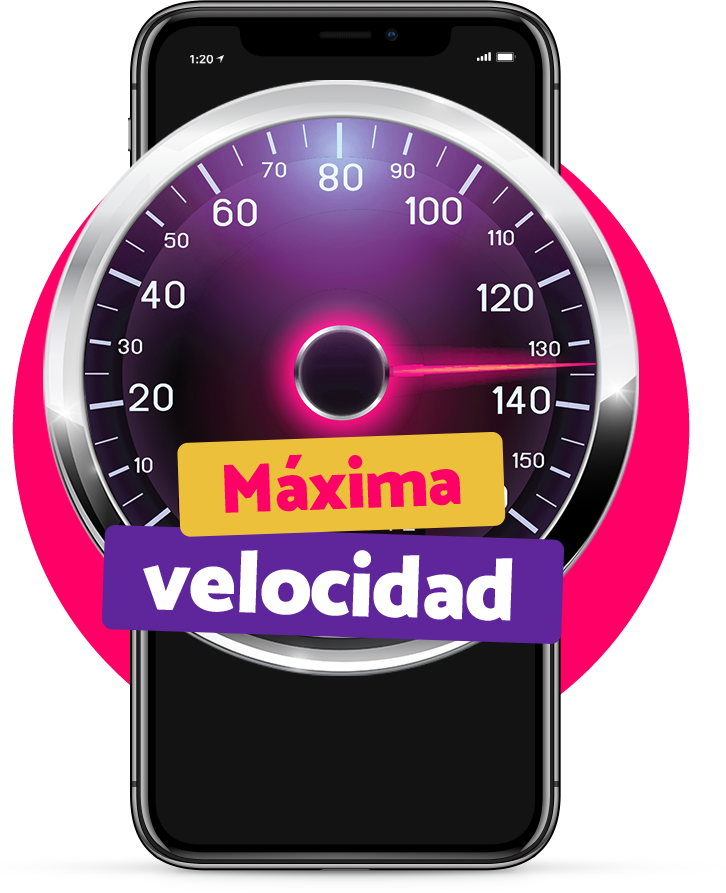
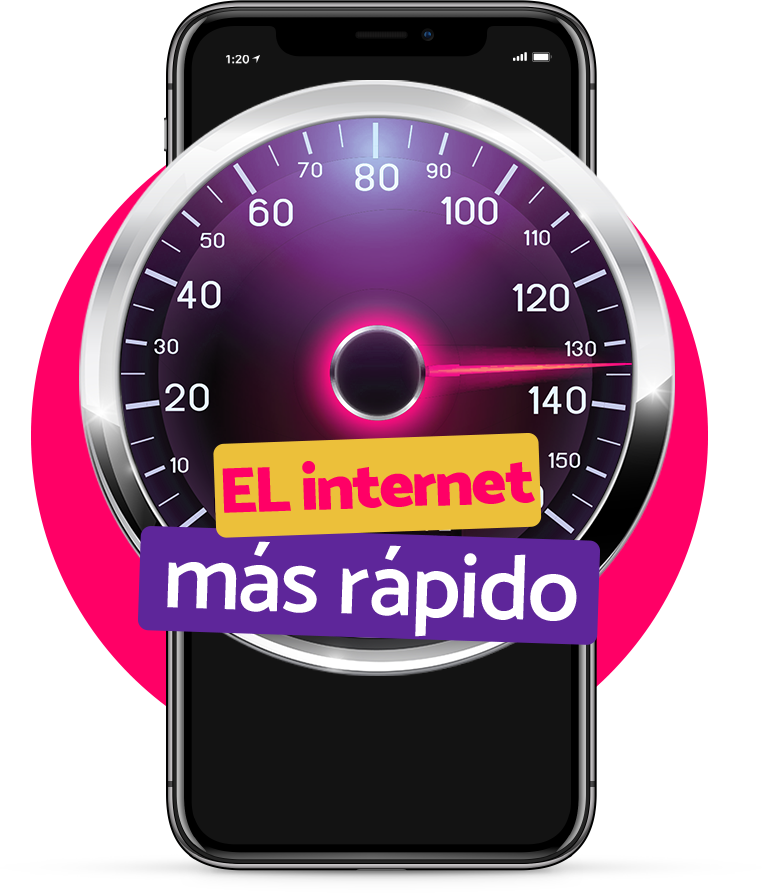
[FINAL]

Changed region(s): [[0.0, 0.0, 0.9697, 0.9978]]

diff --git a/index.html b/index.html
@@ -13,7 +13,7 @@
     <link rel="stylesheet" href="./assets/css/jquery-ui.css">
     <link rel="stylesheet" href="./assets/css/style.css">
     <script src="https://kit.fontawesome.com/a076d05399.js"></script>
-    <title>Ahora tuenti es mas CLARO</title>
+    <title>Ahora tuenti es más claro</title>
 </head>
 
 <body>
@@ -21,13 +21,13 @@
         <div class="content_nav">
             <nav class="nav search_one bg-tuenti">
                 <img src="./assets/img/logo_white.png" class="tuenti_logo_header">
-                <img src="./assets/img/share.png" class="share_button_header">
+                <img src="./assets/img/share.png" class="share_button_header " onClick="sharePagina()">
             </nav>
             <nav class="nav search_two d-none">
                 <!-- <img src="./assets/img/logo2.png" class="tuenti_logo_header"> -->
                 <a class="action_button" href="#contein_row_1">
                 <button class="button_header" href="#contein_row_1"><img style="margin-left: 2px;margin-right: 2px" src="./assets/img/PIhDCo.png"></i>Buscar</button></a>
-                <img src="./assets/img/share2.png" class="share_button_header">
+                <img src="./assets/img/share2.png" class="share_button_header" onClick="sharePagina()">
             </nav>
         </div>
         
@@ -223,14 +223,13 @@
                             </div> -->
                             <div class="text_description w-85 m-auto text-left padding-right-25">
                                 <p>
-                                    <strong>Velocidad de internet:</strong><br>
                                     ¿Cansado de esperar a que carguen tus videos?<br>
-                                    Ahora vas a poder navegar con EL internet más rápido de Guatemala. 
+                                    Ahora vas a poder navegar con El internet más rápido de Guatemala. 
                                 </p>
                             </div>
                         </div>
                         <div class="spacer s0" id="trigger6"></div>
-                    <div class="button_more w-75 m-auto" class="animacionRow6">
+                    <div class="button_more w-75 m-auto" class="animacionRow6" style="bottom: 2rem!important;">
                         <a href="#contein_row_2">
                             <button id="more-22" class="m-left-auto">Conocé más</button>
                         </a>
@@ -247,7 +246,7 @@
                                 <div class="spacer s0" id="trigger-tacometro"></div>
                                 <img class="agujaIcon" id="agujaIcon" src="./assets/img/aguja.png">
                                 <img class="" id="taponIcon" src="./assets/img/tapon-tacometro.png">
-                                <img class="animation-mas-icon" id="masIcon" src="./assets/img/mas-velocidad.png">
+                                <img class="animation-mas-icon" id="masIcon" src="./assets/img/mas-velocidad2.png">
                                 
                             </div>
                         <!-- <img class="img_tema" src="./assets/img/x5/x5.png"> -->
@@ -613,7 +612,7 @@
                 <div class="w-100">
                     <div class="title m-auto w-100 pl-15" class="animacionRow20">
                         <h4 class="c-medium mb_s_5"></h4>
-                        <h2 class="c-bold title_2 mb_t_5">Control total</h2>
+                        <h2 class="c-bold title_2 mb_t_5 mb-5">Control Total</h2>
                     </div>
                     <div class="description w-75 m-auto" class="animacionRow21">
                         <div class="row d-flex">
@@ -624,38 +623,44 @@
                                 <p>
                                     Seguí controlando todos tus megas y minutos gracias a que Tuenti ahora es más claro.
                                 </p>
+                                <p > 
+                                    Descarga la App acá:
+                                </p>
+                                <div class="row w-100 text-left" style="text-align: right!important;direction: ltr;padding: 0px;margin: 0px;">
+                                
+                                        <div class="col-xs-4 col-sm-4 col-md-4 col-lg-4 w-50 text-left">
+                                            <a href="https://apps.apple.com/gt/app/mi-claro-centroam%C3%A9rica/id953328601" target="_blank">
+                                                <img class="ios"  src="./assets/img/IOS.png">
+                                            </a>
+                                        </div>
+                                        <div class="col-xs-4 col-sm-4 col-md-4 col-lg-4 w-50 text-left">
+                                                <a href="https://play.google.com/store/apps/details?id=com.claro.miclaro&hl=es_419" target="_blank">
+                                                    <img class="play" src="./assets/img/Play.png">
+                                                </a>
+                                        </div>
+                                        
+                                    </div>
                             </div>
+                            
                         </div>
-                        <!-- <div class="button_more w-75 m-auto" class="animacionRow22">
-                            <a href="#contein_row_8">
-                                <button id="more-88" class="m-left-auto">Conocé más</button>
-                            </a>
-                        </div> -->
+                       
                     </div>
                 </div>
             </div>
             <div class="col col-f  col-img d-flex w-50 mt-3">
                 <div class="d-flex w-100" class="animacionRow23">
                     <div class="comboContaner">
-                        <div style="width: 90%;display:flex;">
+                        <div style="width: 100%;display:flex;height:80%;">
                                 <img class="animation-download-icon"  src="./assets/img/download.png">
-                        </div>
-                        <div style="display: block;width:90%;">
-                            <a href="https://apps.apple.com/es/app/tuenti/id349705795" target="_blank">
-                                <img class="ios"  src="./assets/img/IOS.png">
-                            </a>
-                            <a href="https://play.google.com/store/apps/details?id=com.tuenti.messenger" target="_blank">
-                                <img class="play" src="./assets/img/Play.png">
-                            </a>
                         </div>
                            
                     </div>
                 <img class="img_tema" src="./assets/img/phone.png">
                     <!-- <img class="img_tema" src="./assets/img/x6/x6.png"> -->
                     </div>
-                    <div class="contain-arrow d-flex ml-auto w-10">
+                    <!-- <div class="contain-arrow d-flex ml-auto w-10">
                         <img onclick="animation(8)" class="arrow_more m-auto" src="./assets/img/Asset 10.png">
-                    </div>
+                    </div> -->
                 </div>
             </div>
             <div class="contain_more_data d-none ">
@@ -668,7 +673,7 @@
                                     </div>
                                     <div style="display: block;width:100%;">
                                             <img class="ios"  src="./assets/img/IOS.png">
-                                            <img class="play" src="./assets/img/PLAY.png">
+                                            <img class="play" src="./assets/img/Play.png">
                                     </div>
                                        
                                 </div>

diff --git a/assets/css/style.css b/assets/css/style.css
@@ -64,11 +64,21 @@ html , body{
         font-size: 8rem!important;
     }
 }
+@media only screen and (max-width: 1000px){
+    .ios{
+        height: auto!important;
+        width:80%;
+    }
+    .play{
+        height: auto!important;
+        width:80%;
+    }
+}
 .ios{
     position: relative;
     /* box-shadow: #ffffff 2px 4px 8px 0px; */
     display:block;
-    width: 30%;
+    height: 100%;
     margin-left: auto;
     margin-right: auto;
     margin-bottom:5%;
@@ -79,9 +89,11 @@ html , body{
     position: relative;
     /* box-shadow: #ffffff 2px 4px 8px 0px; */
     display:block;
-    width: 30%;
+    height: 100%;
     margin-left: auto;
     margin-right: auto;
+    margin-bottom: 5%;
+    margin-top: 5%;
 }
 .c-bold{
     font-family: "Catamaran-extrabold";
@@ -472,6 +484,7 @@ h4 {
     margin: 25px;
     margin-left: 5px;
     margin-left: auto;
+    cursor: pointer;
 }
 .button_header{
     margin-left: auto;
@@ -666,19 +679,15 @@ iframe {
     .inicioDiv{
         margin-top: 22vh!important;
     }
-    .animation-download-icon {
-        height: 18vh!important;
-        margin-top: 35vh!important;
-
-    }
+    
 }
 
 
 @media only screen and (max-width:1000px){
     
     .animation-download-icon {
-        height: 25vh;
-        margin-top: 35vh!important;
+        height: 40vh!important;
+        margin-top: 15vh!important;
 
     }
     .description-more-text{
@@ -1827,6 +1836,9 @@ iframe {
         margin-left: auto ;
     }
     @media only screen and (max-width:1000px){
+        .speedContaner{
+            width: 70%!important;
+        }
         #instagramIcon{
             top: 10%!important;
         }
@@ -2098,7 +2110,7 @@ iframe {
     #masIcon{
         position: absolute;
         align-self: center;
-        margin-top: 30%;
+        margin-top: 20%;
         width: 90%;
         right: 0;
       }
@@ -2281,7 +2293,7 @@ iframe {
             width: 45%;
         }
         #agujaIcon {
-            top:40%!important;
+            top:50%!important;
         }
         .circuloBlanco{
             width: 80%!important;
@@ -2386,7 +2398,7 @@ iframe {
             top: 40%!important;
             width: 60%!important;
             transform: rotateZ(-180deg);
-            left: 40%!important;
+            left: 50%!important;
         }
         .animation-aguja-icon {
             -webkit-transform: rotateZ(-45deg);
@@ -2439,7 +2451,7 @@ iframe {
       .animation-download-icon {
           margin-top: 30%;
           width: 60%;
-          height: 35vh;
+          height: 100%;
           margin-left: auto;
           margin-right: auto;
         animation: animation-download-icon 1s linear infinite both;

diff --git a/assets/js/main.js b/assets/js/main.js
@@ -1,4 +1,5 @@
 $(document).ready(function () {
+  
   var availableTags = [
     // "Velocidad de internet",
     "Cobertura",
@@ -56,6 +57,7 @@ $(document).ready(function () {
       buscar2(ui.item.label)
            buscar(ui.item.label)
     }
+    
     var controller = new ScrollMagic.Controller();
       new ScrollMagic.Scene({
         triggerElement: "#trigger1",
@@ -962,7 +964,7 @@ function animation(num){
           $("#contein_row_2 .title_2").css("font-size","3em");
         $("#contein_row_2 .description .text_description").css("font-size","1em!important");
           $("#contein_row_2 .title_2").css("margin-bottom","0.8em");
-          $("#contein_row_2 #more-33").fadeOut();
+          $("#contein_row_2 #more-22").fadeOut();
           $("#contein_row_2 .contain_more_data").removeClass("d-none");
           $("#contein_row_2 .contain_more_data").addClass("d-flex");
           $("#contein_row_2 .contain_more_data").animate({
@@ -1363,6 +1365,20 @@ function white_button(){
   $(".search_tre").removeClass("d-none");
   $(".search_tre").fadeIn();
   
+}
+
+function sharePagina(){
+  console.log('share');
+  
+  if(navigator.share) {
+    navigator.share({
+      title: 'Sin Pajas',
+      text: 'Comparte con todos',
+      url: 'http://sinpajas.gt'
+    })
+    .then(() => console.log('Share complete'))
+    .error((error) => console.error('Could not share at this time', error))
+  }
 }
 // anime.timeline({loop: false})
 //   .add({
